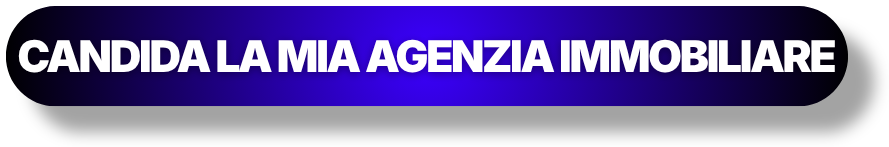
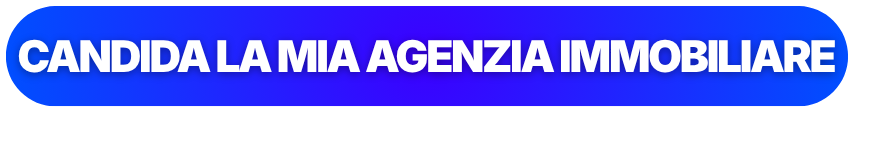
Aggiorna i pulsanti grafici e rende i titoli piu grossi (Inter Black)
Sostituiti i 3 pulsanti PNG con la nuova versione blu inviata, applicati
anche a garanzia e zona (prima testuali). Titoli h1/h2 passano a
font-weight 900 per un design piu 'pesante' e visibile, come nel
riferimento mobile mandato dall'utente.

diff --git a/index.html b/index.html
@@ -416,7 +416,7 @@
     <h3 style="margin:14px 0 12px;">Dov'è la fregatura allora? Non c'è.</h3>
     <p style="max-width:520px;margin:0 auto;color:var(--muted-foreground);">Non contatti. Non appuntamenti. <strong class="text-money">Incarichi firmati</strong>. Se non li raggiungi nei tempi concordati, ti rimborsiamo l'investimento.</p>
     <p style="max-width:520px;margin:14px auto 0;color:var(--muted-foreground);font-size:0.9rem;">I numeri esatti, personalizzati sulla tua zona, te li mostriamo in call.</p>
-    <a href="#form" class="btn btn-money btn-lg" style="margin-top:28px;">Scopri la garanzia per la mia zona</a>
+    <a href="#form" class="btn-img" style="margin-top:28px;"><img src="assets/img/btn-si-voglio-metodo.png" alt="Scopri la garanzia per la mia zona"></a>
   </div>
   <div class="grid-2" style="margin-top:24px;">
     <div class="card reveal">
@@ -498,8 +498,8 @@
       <div class="zona-stat"><div class="num money">+25% / 60%</div><div class="lbl">Crescita fatturato nei primi 12 mesi</div></div>
     </div>
   </div>
-  <div style="text-align:center;margin-top:32px;">
-    <a href="#form" class="btn btn-money btn-lg reveal">Verifica disponibilità della mia zona</a>
+  <div style="text-align:center;margin-top:32px;" class="reveal">
+    <a href="#form" class="btn-img"><img src="assets/img/btn-candida-agenzia.png" alt="Verifica disponibilità della mia zona"></a>
   </div>
 </section>
 

diff --git a/assets/style.css b/assets/style.css
@@ -165,6 +165,7 @@ button { font-family: inherit; cursor: pointer; border: none; background: none; 
 .eyebrow.money { color: var(--money-bright); }
 
 h1, h2, h3, h4 { font-family: var(--font-display); font-weight: 700; letter-spacing: -0.02em; line-height: 1.12; }
+h1, h2 { font-weight: 900; }
 h1 { font-size: clamp(1.9rem, 7.5vw, 3.8rem); line-height: 1.16; }
 h2 { font-size: clamp(1.5rem, 6vw, 2.6rem); }
 h3 { font-size: 1.2rem; }
